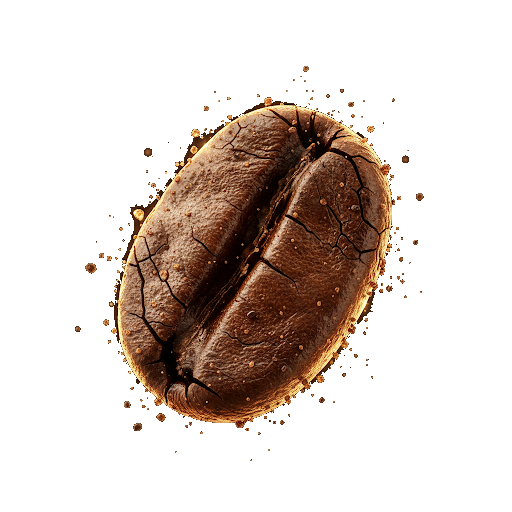
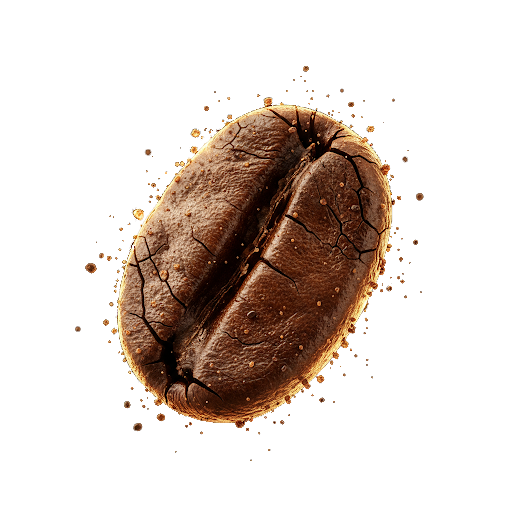
updated images and products on whatsapp links

diff --git a/assets/css/styles.css b/assets/css/styles.css
@@ -371,7 +371,6 @@ h3 {
 }
 
 .feature-image.family-photo > img {
-  aspect-ratio: 16 / 9;
   height: auto;
   object-fit: cover;
   object-position: center center;
@@ -397,7 +396,6 @@ h3 {
 }
 
 .section-title-center p {
-  margin: 14px 0 0;
   color: var(--text-dim);
 }
 
@@ -471,13 +469,28 @@ h3 {
   border: 1px solid #2a2a2a;
   border-radius: 4px;
   background: #141414;
+  color: inherit;
+  cursor: pointer;
   padding: 28px;
   text-align: center;
   overflow: hidden;
+  transition: background 160ms ease, border-color 160ms ease, transform 160ms ease;
 }
 
 .product-card.featured {
   border-color: rgba(233, 193, 118, 0.45);
+}
+
+.product-card:hover,
+.product-card:focus-visible {
+  border-color: rgba(233, 193, 118, 0.78);
+  background: #181715;
+  outline: none;
+  transform: translateY(-2px);
+}
+
+.product-card:focus-visible {
+  box-shadow: 0 0 0 3px rgba(233, 193, 118, 0.2);
 }
 
 .product-card.featured::before {
@@ -516,10 +529,25 @@ h3 {
 .product-card h3 {
   position: relative;
   z-index: 1;
+
+  margin: 0 0 15px 0;
 }
 
-.product-card:hover img {
+.product-card:hover img,
+.product-card:focus-visible img {
   transform: scale(1.03);
+}
+
+.product-cta {
+  position: relative;
+  z-index: 1;
+  margin-top: auto;
+  padding-top: 22px;
+  color: var(--primary);
+  font-size: 11px;
+  font-weight: 800;
+  text-transform: uppercase;
+  letter-spacing: 0.08em;
 }
 
 .notes {

diff --git a/index.html b/index.html
@@ -14,7 +14,7 @@
     <header class="site-header">
       <nav class="nav" aria-label="Principal">
         <a class="brand" href="#inicio" aria-label="Monte Viejo inicio">
-          <img src="assets/images/logo-mark.png" alt="">
+          <img src="assets/images/logo-black-main.png" alt="">
           <span>Monte Viejo</span>
         </a>
         <div class="nav-links">
@@ -98,7 +98,7 @@
           </div>
 
           <figure class="feature-image family-photo">
-            <img src="assets/images/family.png" alt="Familia productora Monte Viejo en cafetal de Rodríguez de Mendoza">
+            <img src="assets/images/family-sq.png" alt="Familia productora Monte Viejo en cafetal de Rodríguez de Mendoza">
             <figcaption class="quote">Café de altura, tradición familiar y dedicación por la calidad. Desde Amazonas hasta tu taza.</figcaption>
           </figure>
         </div>
@@ -134,7 +134,7 @@
           </div>
 
           <div class="product-grid">
-            <article class="product-card">
+            <a class="product-card" href="https://api.whatsapp.com/send?phone=[phone redacted]&amp;text=Hola%2C%20quiero%20consultar%20por%20Caf%C3%A9%20verde%20Monte%20Viejo." target="_blank" rel="noopener" aria-label="Consultar por WhatsApp sobre Café verde Monte Viejo">
               <img src="assets/images/bag-forest.jpg" alt="Café verde Monte Viejo">
               <h3>Café verde</h3>
               <p class="product-copy">Seleccionado para tostadores, cafeterías y negocios que buscan origen definido, trazabilidad y consistencia.</p>
@@ -143,11 +143,12 @@
                 <li>Perfil: cacao, miel, frutos secos</li>
                 <li>Venta según volumen y campaña</li>
               </ul>
-            </article>
+              <span class="product-cta">Consultar por WhatsApp</span>
+            </a>
 
-            <article class="product-card featured">
+            <a class="product-card featured" href="https://api.whatsapp.com/send?phone=[phone redacted]&amp;text=Hola%2C%20quiero%20consultar%20por%20Caf%C3%A9%20tostado%20en%20grano%20Monte%20Viejo." target="_blank" rel="noopener" aria-label="Consultar por WhatsApp sobre Café tostado en grano Monte Viejo">
               <span class="badge">Recomendado</span>
-              <img src="assets/images/bag-mountain.jpg" alt="Café tostado en grano Monte Viejo">
+              <img src="assets/images/bag-table.jpg" alt="Café tostado en grano Monte Viejo">
               <h3>Café tostado en grano</h3>
               <p class="product-copy">Perfil balanceado para consumo diario y cafeterías. Resalta dulzor natural, aroma y taza limpia.</p>
               <ul class="product-specs">
@@ -155,9 +156,10 @@
                 <li>Notas: caramelo, cacao, panela y nuez</li>
                 <li>Ideal para espresso, moka, prensa y filtrados</li>
               </ul>
-            </article>
+              <span class="product-cta">Consultar por WhatsApp</span>
+            </a>
 
-            <article class="product-card">
+            <a class="product-card" href="https://api.whatsapp.com/send?phone=[phone redacted]&amp;text=Hola%2C%20quiero%20consultar%20por%20Caf%C3%A9%20molido%20Monte%20Viejo." target="_blank" rel="noopener" aria-label="Consultar por WhatsApp sobre Café molido Monte Viejo">
               <img src="assets/images/pour-over.jpg" alt="Café molido Monte Viejo">
               <h3>Café molido</h3>
               <p class="product-copy">Tostado y empacado para conservar frescura y aroma, pensado para practicidad sin perder calidad.</p>
@@ -166,9 +168,10 @@
                 <li>Presentaciones: 500 g / 1 kg</li>
                 <li>Para cafetera eléctrica, moka, prensa y filtrado</li>
               </ul>
-            </article>
+              <span class="product-cta">Consultar por WhatsApp</span>
+            </a>
 
-            <article class="product-card">
+            <a class="product-card" href="https://api.whatsapp.com/send?phone=[phone redacted]&amp;text=Hola%2C%20quiero%20consultar%20por%20Venta%20al%20por%20mayor%20Monte%20Viejo." target="_blank" rel="noopener" aria-label="Consultar por WhatsApp sobre Venta al por mayor Monte Viejo">
               <img src="assets/images/coffee-cherries.jpg" alt="Café para negocios Monte Viejo">
               <h3>Venta al por mayor</h3>
               <p class="product-copy">Abastecimiento para cafeterías, restaurantes, tiendas, tostadores y distribuidores.</p>
@@ -177,7 +180,8 @@
                 <li>Entregas programadas</li>
                 <li>Precio según cantidad y frecuencia</li>
               </ul>
-            </article>
+              <span class="product-cta">Consultar por WhatsApp</span>
+            </a>
           </div>
         </div>
       </section>
@@ -241,7 +245,7 @@
 
     <footer class="site-footer">
       <div class="container footer-inner">
-        <img class="footer-logo" src="assets/images/logo-footer.png" alt="Monte Viejo">
+        <img class="footer-logo" src="assets/images/logo-black-main.png" alt="Monte Viejo">
         <p class="eyebrow">Una marca familiar · Rodríguez de Mendoza, Amazonas</p>
         <nav class="footer-links" aria-label="Pie de página">
           <a href="#familia">Historia</a>